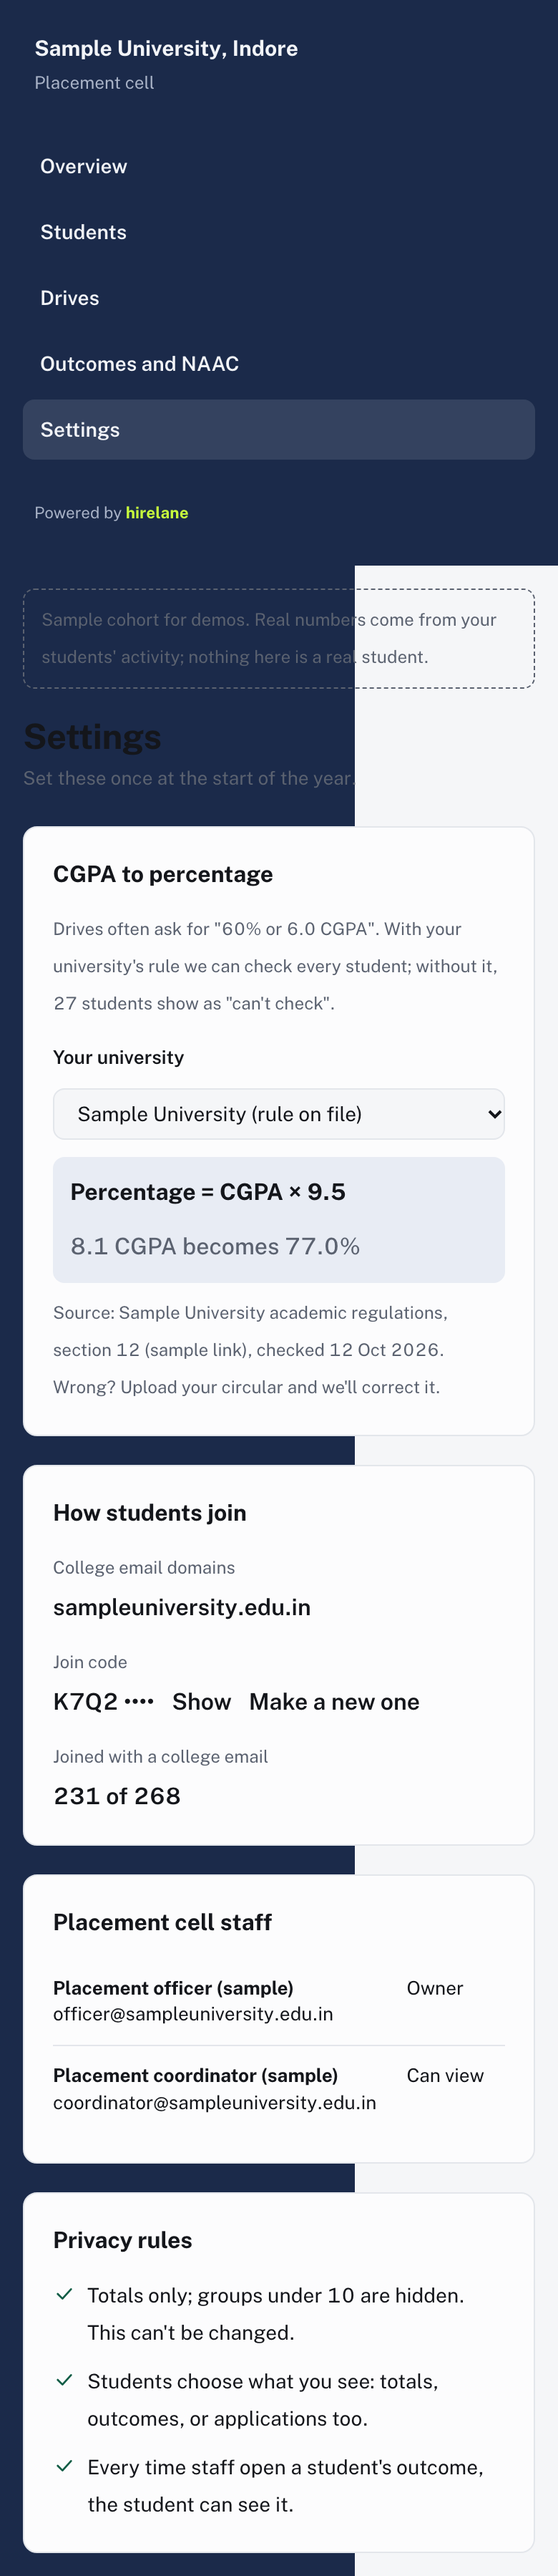
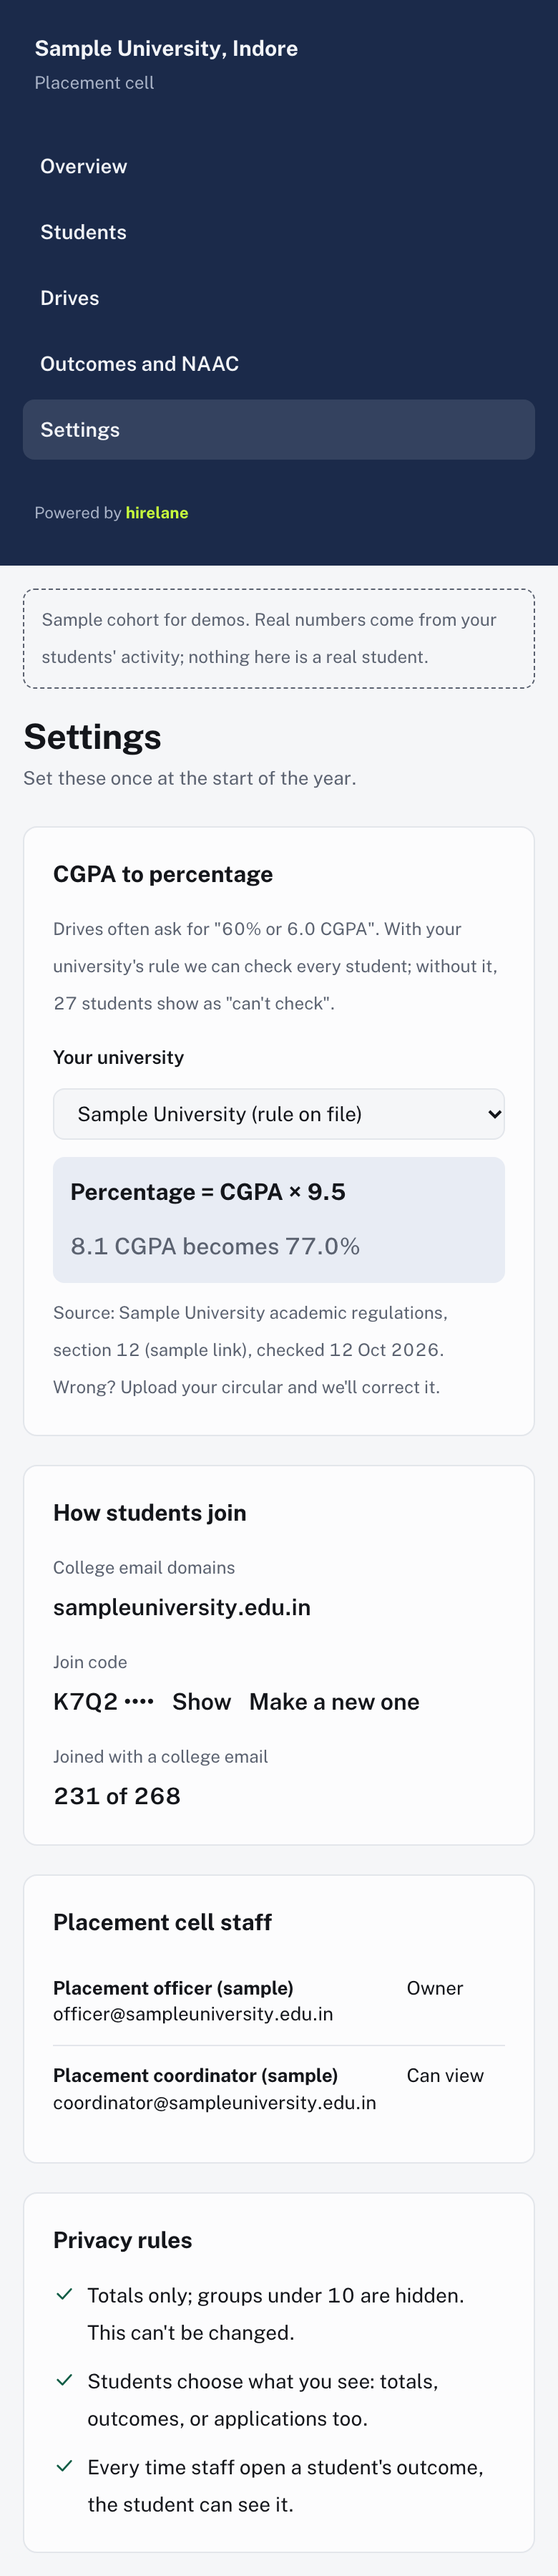
fix(web): no horizontal overflow on phones (hidden chip inputs, wide console cards)

Changed region(s): [[0.0, 0.2179, 0.6462, 1.0]]

diff --git a/apps/web/app/campus.css b/apps/web/app/campus.css
@@ -1406,3 +1406,41 @@ body {
   }
 }
 
+
+/* Wide tables and the funnel scroll inside their own card on phones; the page never scrolls sideways. */
+.cp-card {
+  overflow-x: auto;
+}
+
+@media (max-width: 960px) {
+  .cp-main,
+  .cp-top > div {
+    min-width: 0;
+  }
+
+  .cp-ledger dd {
+    font-size: 1.5rem;
+  }
+}
+
+.cp-drive-layout > *,
+.cp-drive-form > * {
+  min-width: 0;
+}
+
+@media (max-width: 1180px) {
+  .cp-crit {
+    display: block;
+    overflow-x: auto;
+  }
+}
+
+.cp-chip {
+  position: relative;
+}
+
+.cp-field .cp-chip input {
+  width: 1px;
+  height: 1px;
+  padding: 0;
+}

diff --git a/apps/web/app/account.css b/apps/web/app/account.css
@@ -2265,3 +2265,12 @@ body {
     max-width: 480px;
   }
 }
+
+.wr-needs-opts label {
+  position: relative;
+}
+
+.wr-needs-opts input {
+  width: 1px;
+  height: 1px;
+}
